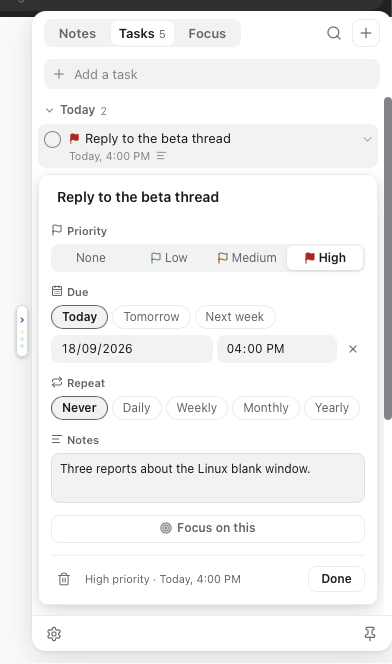
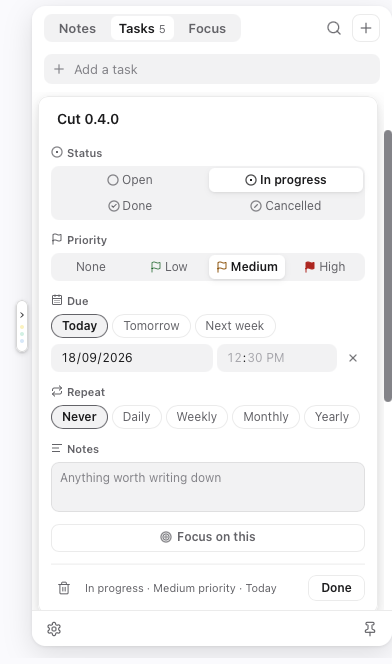
Task statuses on the page, and where contributions stand
The Tasks section now says a task is Open, In progress, Done or Cancelled,
with screenshots of the list and of the status control that sets them, and
a new section says the project is open source and closed to contributions:
read it, fork it, report bugs, but pull requests are not taken.

Claude-Session: https://claude.ai/code/session_01QpKa3YGJRHLRNCaf9kKW2R

diff --git a/index.html b/index.html
@@ -300,25 +300,28 @@
     <section class="feature ">
       <div class="feature-text">
         <h3>Tasks that know what day it is</h3>
-        <p>Tasks are their own list, not checkboxes buried in a note: Today,
-     Tomorrow, Upcoming, Someday and Done, folded away when you do not need them.
-     Type the details straight into the add field — <code>@tomorrow</code>,
+        <p>Tasks are their own list, not checkboxes buried in a note: In progress at
+     the top, then Today, Tomorrow, Upcoming and Someday, with Done and Cancelled
+     folded away at the bottom.</p>
+     <p>Type the details straight into the add field — <code>@tomorrow</code>,
      <code>2pm</code>, <code>!high</code> — and see them read back as chips before
      you press Return.</p>
       </div>
-      <figure class="shot "><img src="screenshots/tasks.png" alt="The Tasks tab, with sections for Today, Tomorrow, Upcoming, Someday and Done." loading="lazy"></figure>
+      <figure class="shot "><img src="screenshots/tasks.png" alt="The Tasks tab, with an In progress section at the top, then Today, Tomorrow, Upcoming, Someday, Done and Cancelled." loading="lazy"></figure>
     </section>
 
     <section class="feature ">
       <div class="feature-text">
-        <h3>Due dates, priorities, repeats</h3>
-        <p>Open a task and it becomes a small sheet: priority, a due date and time,
-     a repeat that moves the task on when you tick it rather than completing it,
-     and room for notes.</p>
-     <p>Anything due can raise a system notification, and a task can be handed
-     straight to the focus timer.</p>
+        <h3>Four statuses, not one tick</h3>
+        <p>A task is <b>Open</b>, <b>In progress</b>, <b>Done</b> or <b>Cancelled</b>.
+     The box in the row still finishes one in a press — that is the thing you do
+     all day — and the sheet is where a task is started or dropped. Something you
+     decided against is closed without being counted as work you did.</p>
+     <p>Underneath: priority, a due date and time, and a repeat that moves the
+     task on when you tick it rather than completing it. Anything due can raise a
+     system notification, and a task can be handed straight to the focus timer.</p>
       </div>
-      <figure class="shot "><img src="screenshots/task-details.png" alt="A task's details: priority, due date and time, repeat, notes, and a Focus on this button." loading="lazy"></figure>
+      <figure class="shot "><img src="screenshots/task-details.png" alt="A task's details: status, priority, due date and time, repeat, notes, and a Focus on this button." loading="lazy"></figure>
     </section>
 
     <section class="feature ">
@@ -486,6 +489,22 @@ sudo apt install ledge</code></pre>
 </section>
 
 <section class="band">
+  <div class="wrap narrow">
+    <h2>Open source, closed to contributions</h2>
+    <p>The code is on
+    <a href="https://github.com/prasenjithiwale/edge-notes">GitHub</a> to read,
+    fork and change for your own use. It is not open to contributions: no pull
+    requests, and no feature requests taken as a queue. This is one person's app,
+    built to one set of opinions about what it should be, and keeping it that way
+    is most of why it stays small.</p>
+    <p>Bug reports are the exception and they are welcome — if something is
+    broken, <a href="https://github.com/prasenjithiwale/edge-notes/issues">open an
+    issue</a> and say what happened. A fork is the right answer to "I would have
+    done this differently", and that is a compliment, not a brush-off.</p>
+  </div>
+</section>
+
+<section class="band soft">
   <div class="wrap narrow">
     <h2>What it does not do</h2>
     <p>There is no account, no cloud and no sync: notes live in a SQLite file in
